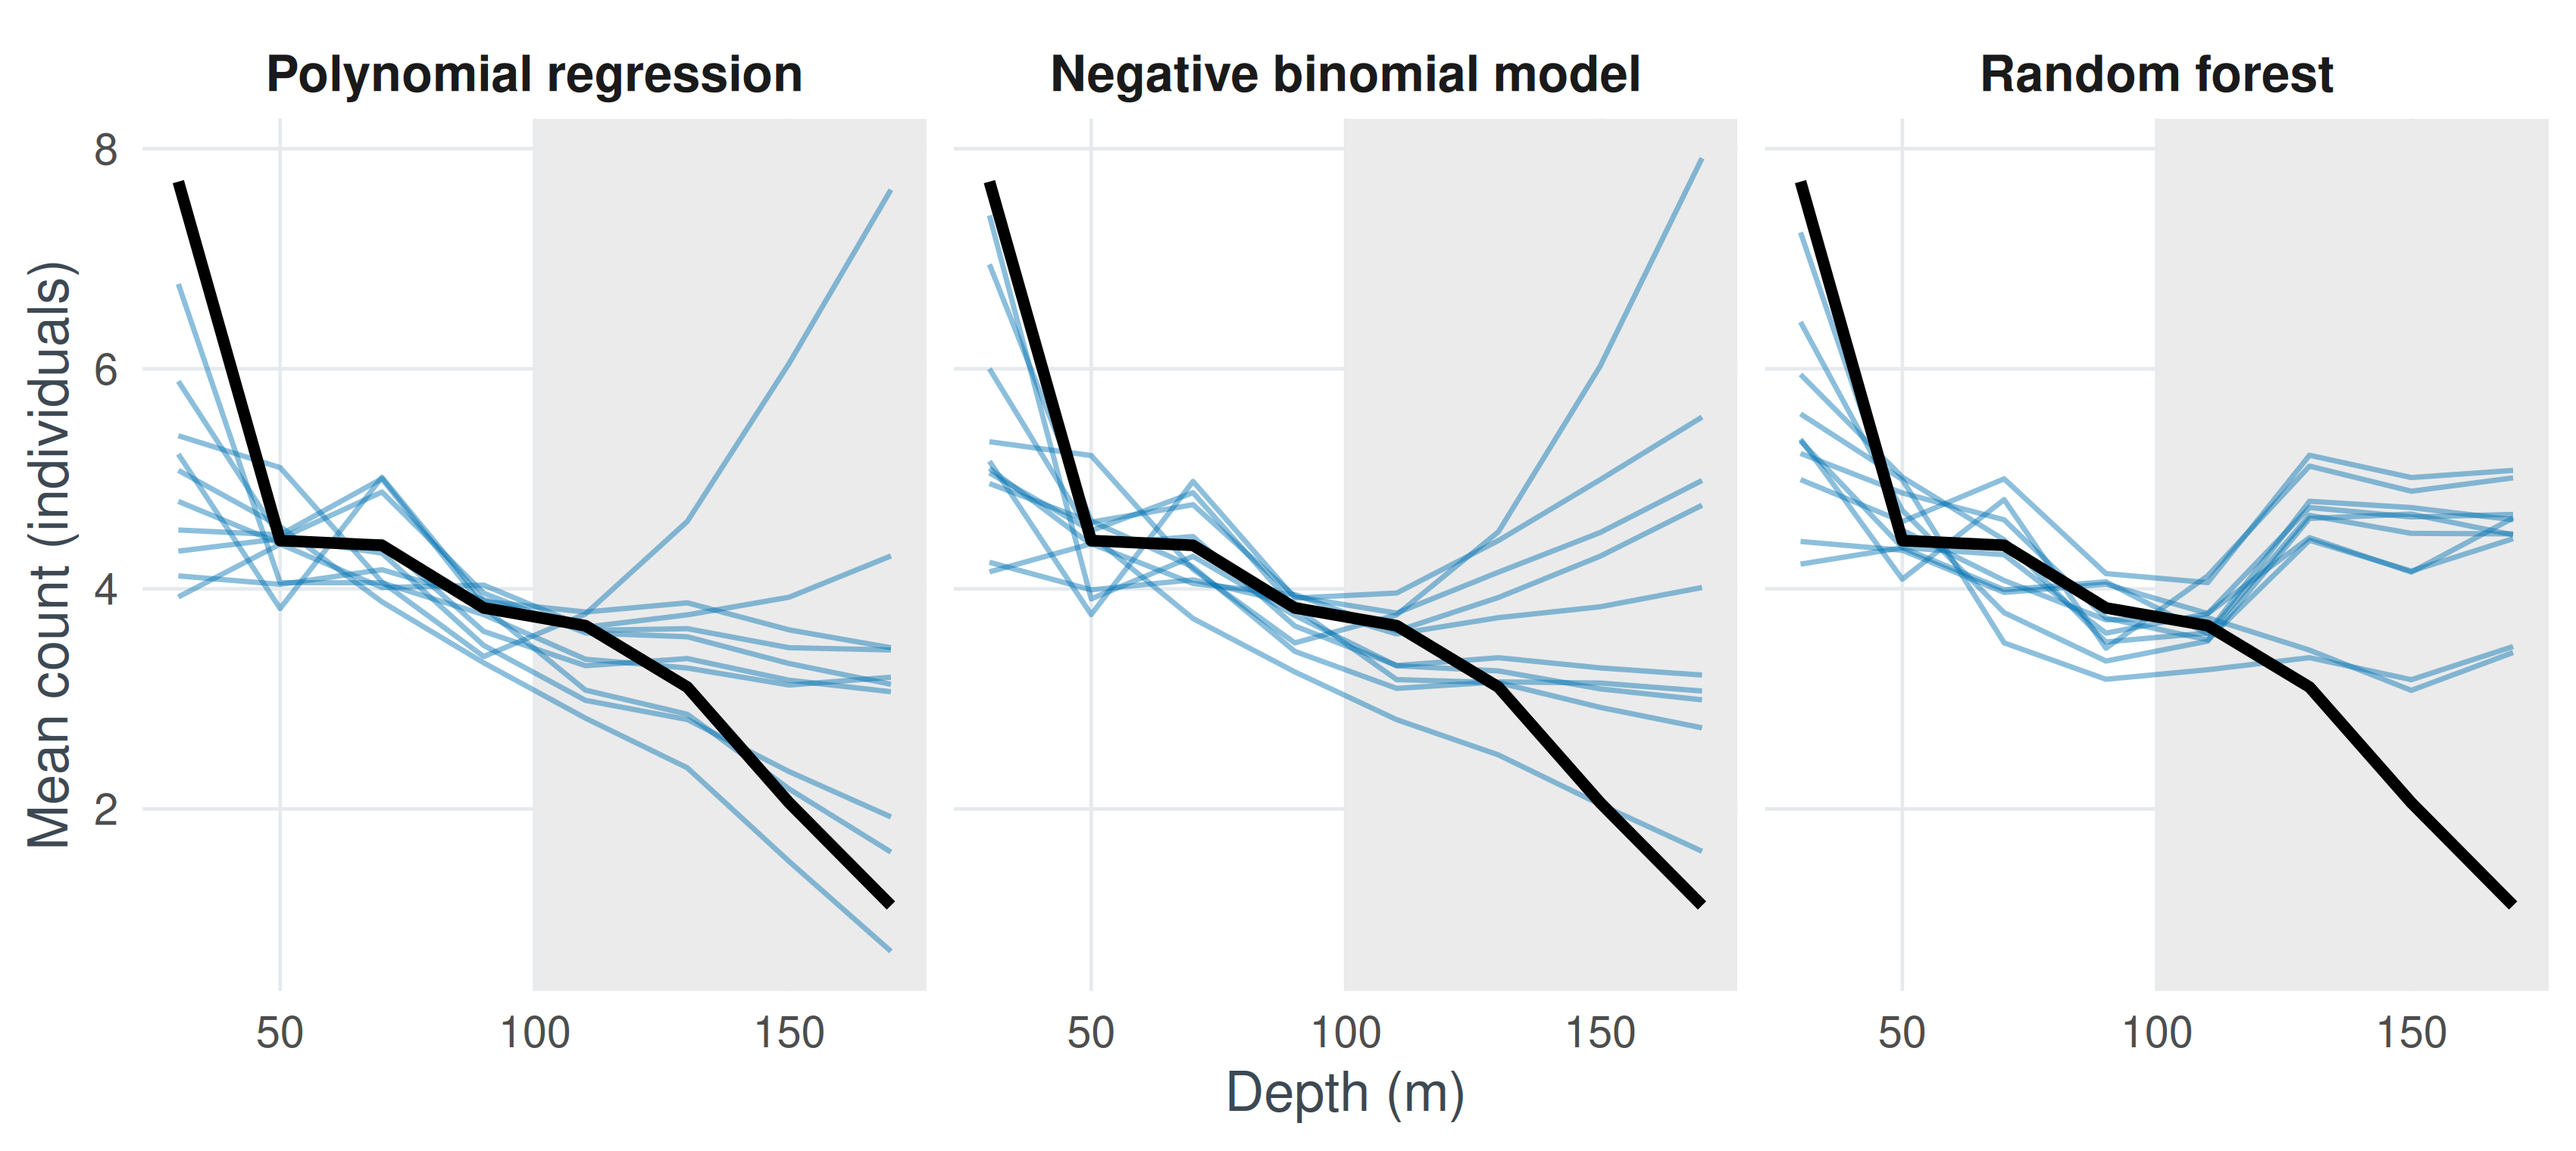
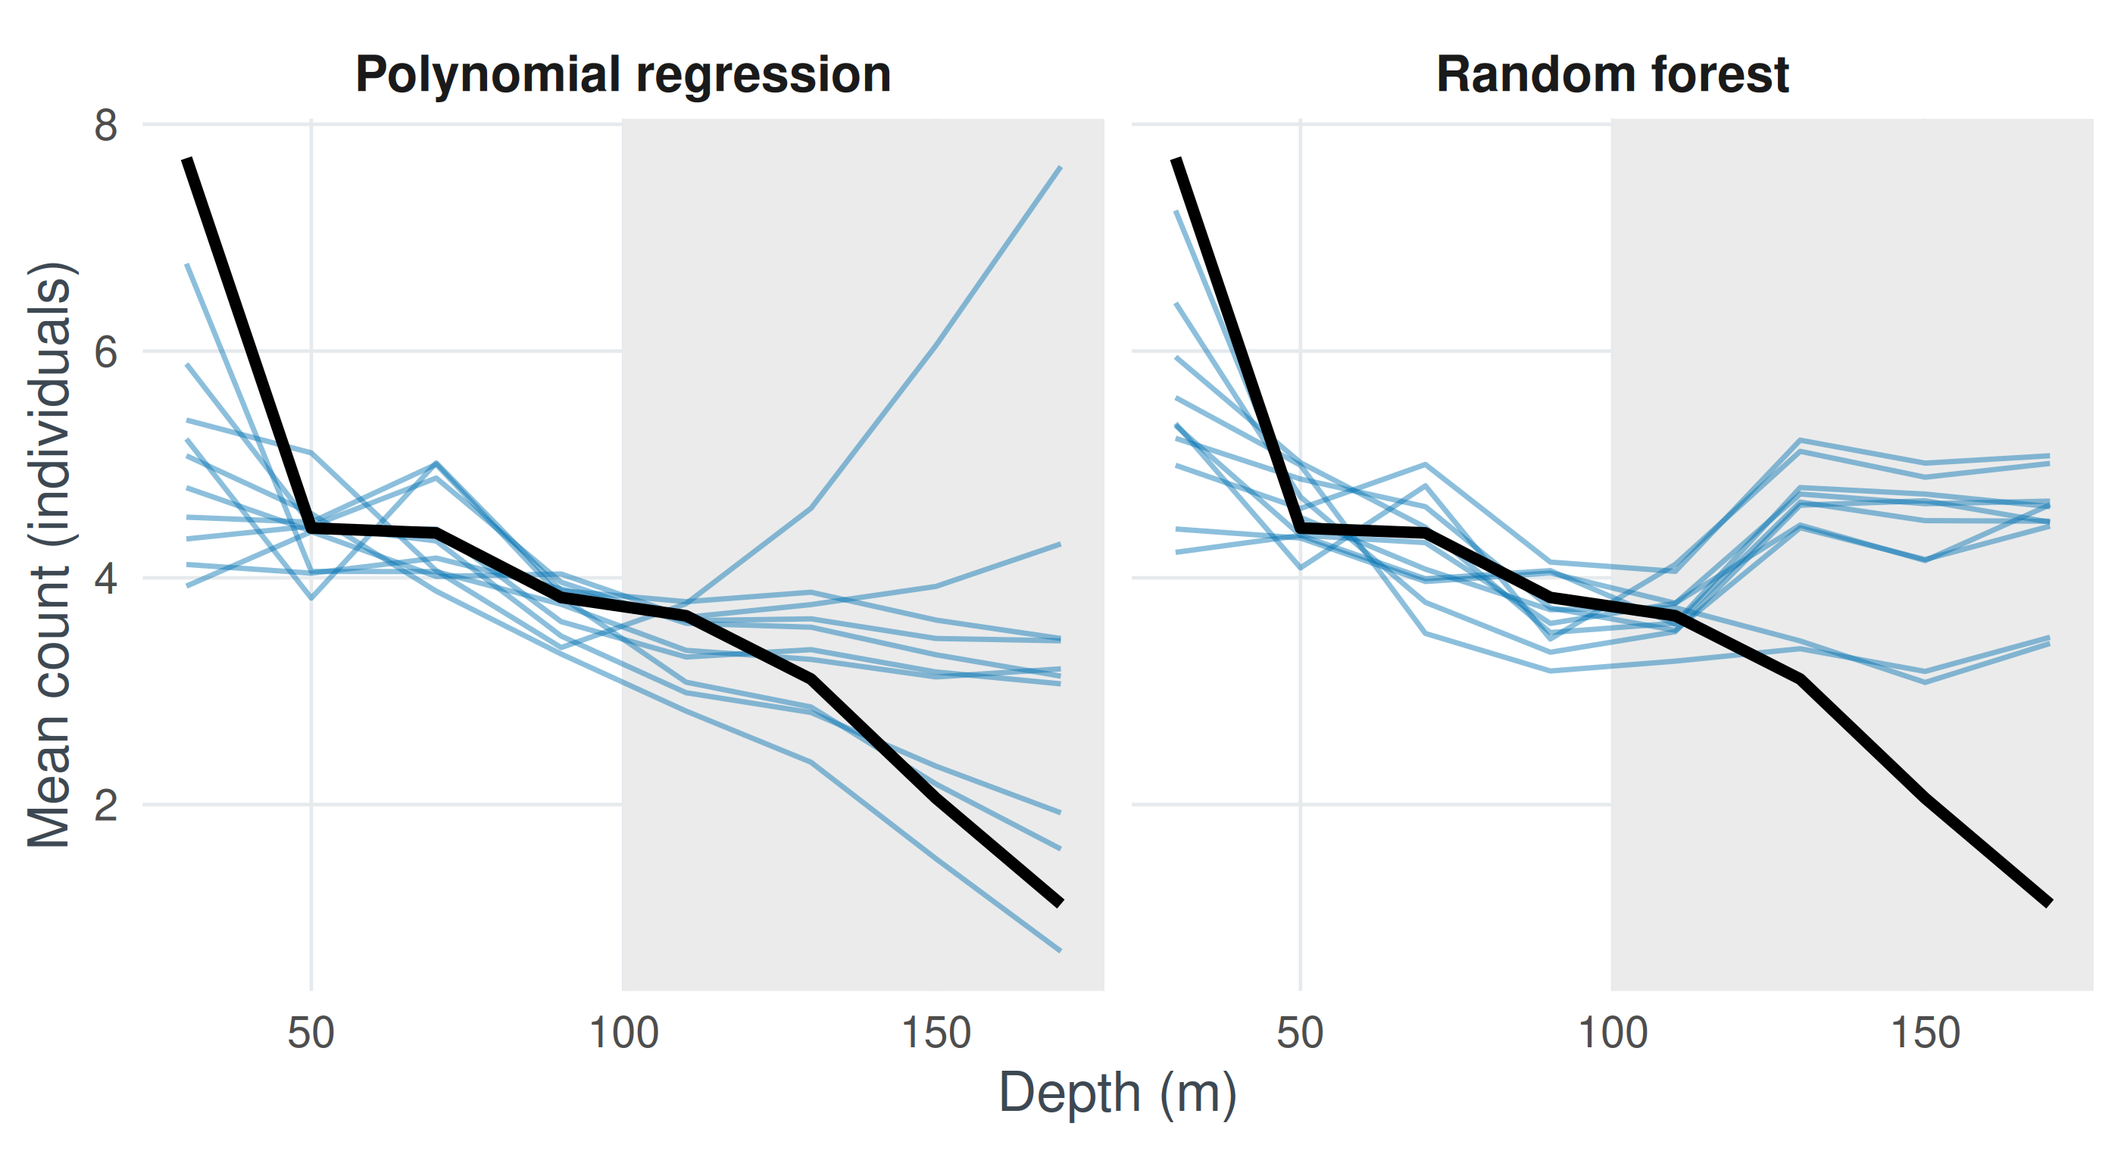
Drop the negative binomial model from the extrapolation example
Past the data it behaved like polynomial regression, so the depth
figure now compares two methods.

Claude-Session: https://claude.ai/code/session_016ezErpkBH4UddzozFWHPPR

diff --git a/.claude/curriculum.md b/.claude/curriculum.md
@@ -200,7 +200,8 @@ it does not.
   stations and new sites (a §5 lesson) and its Poisson model with squared terms (left
   as an exercise); spatial's count of fitted sites within 30 km (the diagram makes the
   point); extrapolation's ratio table (two sentences under the depth figure keep its
-  numbers).
+  numbers). Extrapolation then dropped the negative binomial model, which behaved like
+  polynomial regression past the data, leaving two methods.
 - Running Python tabs on every page. scikit-learn has no GAM: its tab uses
   `SplineTransformer` with a ridge-penalised `PoissonRegressor`.
 
